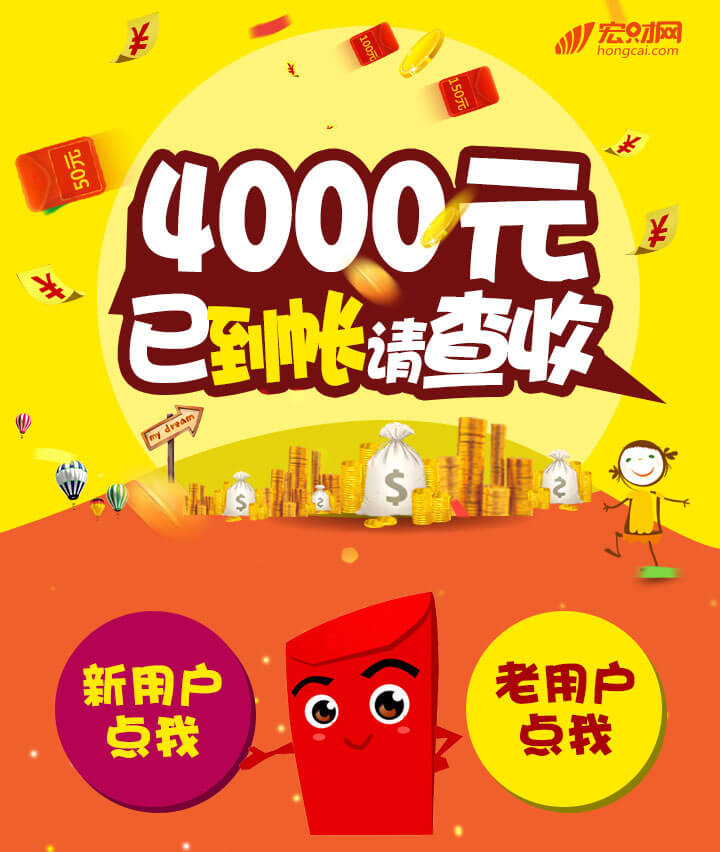
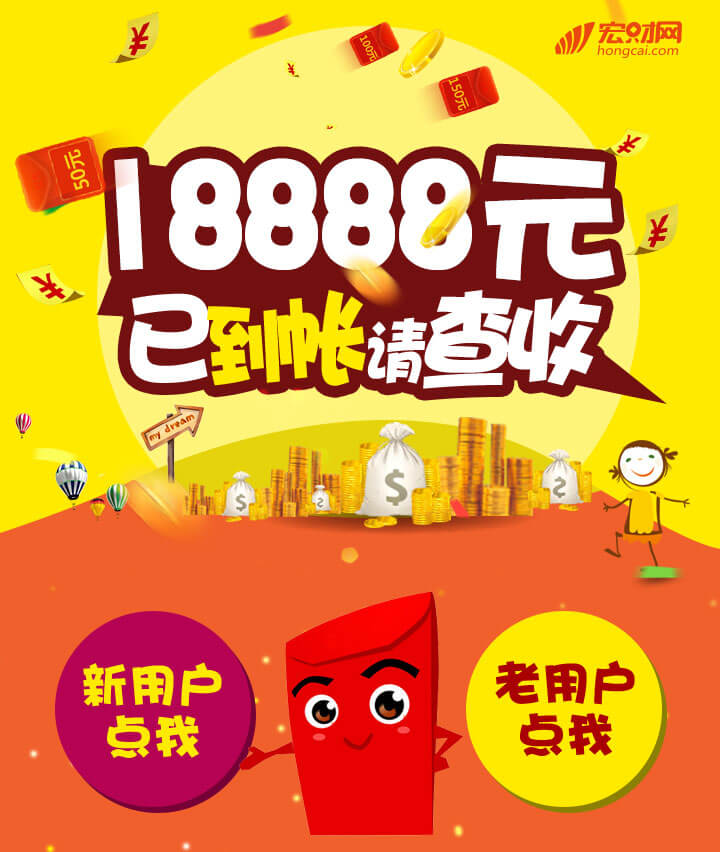
fix(体验金)： 体验金落地页

Changed region(s): [[0.1222, 0.1526, 0.8861, 0.3662]]

diff --git a/app/views/activity/experience-landing.html b/app/views/activity/experience-landing.html
@@ -10,11 +10,11 @@
     <!-- <img src="/images/activity/12.jpg" width="100%"> -->
     <div class="landing-rule">
       <h4>活动规则</h4>
-      <p>1.老用户充入任意金额现金，即可获得4000元体验金。 </p>
-      <p>2.新用户注册即送3000元体验金。充入任意金额现金，再送1000元体验金。 </p>
+      <p>1.老用户充入任意金额现金，即可获得5000元体验金。 </p>
+      <p>2.新用户注册即送13888元体验金。充入任意金额现金，再送5000元体验金。</p>
       <p>3.活动期间，仅限注册或首次充值，赠送体验金。</p>
-      <p>4.体验金仅限“零存宝”投资使用。到期后体验金收回，收益用户可直接提现。 </p>
-      <p>5.活动有效期：2016年3月16日——2016年4月16日。</p>
+      <p>4.体验金仅限“体验金新手标”投资使用。到期后体验金收回，收益用户可直接提现。 </p>
+      <p>5.活动有效期：2016年04月14日——2016年05月14日。</p>
       <p>6.本活动最终解释权归宏财网所有。</p>
     </div>
   </div>
